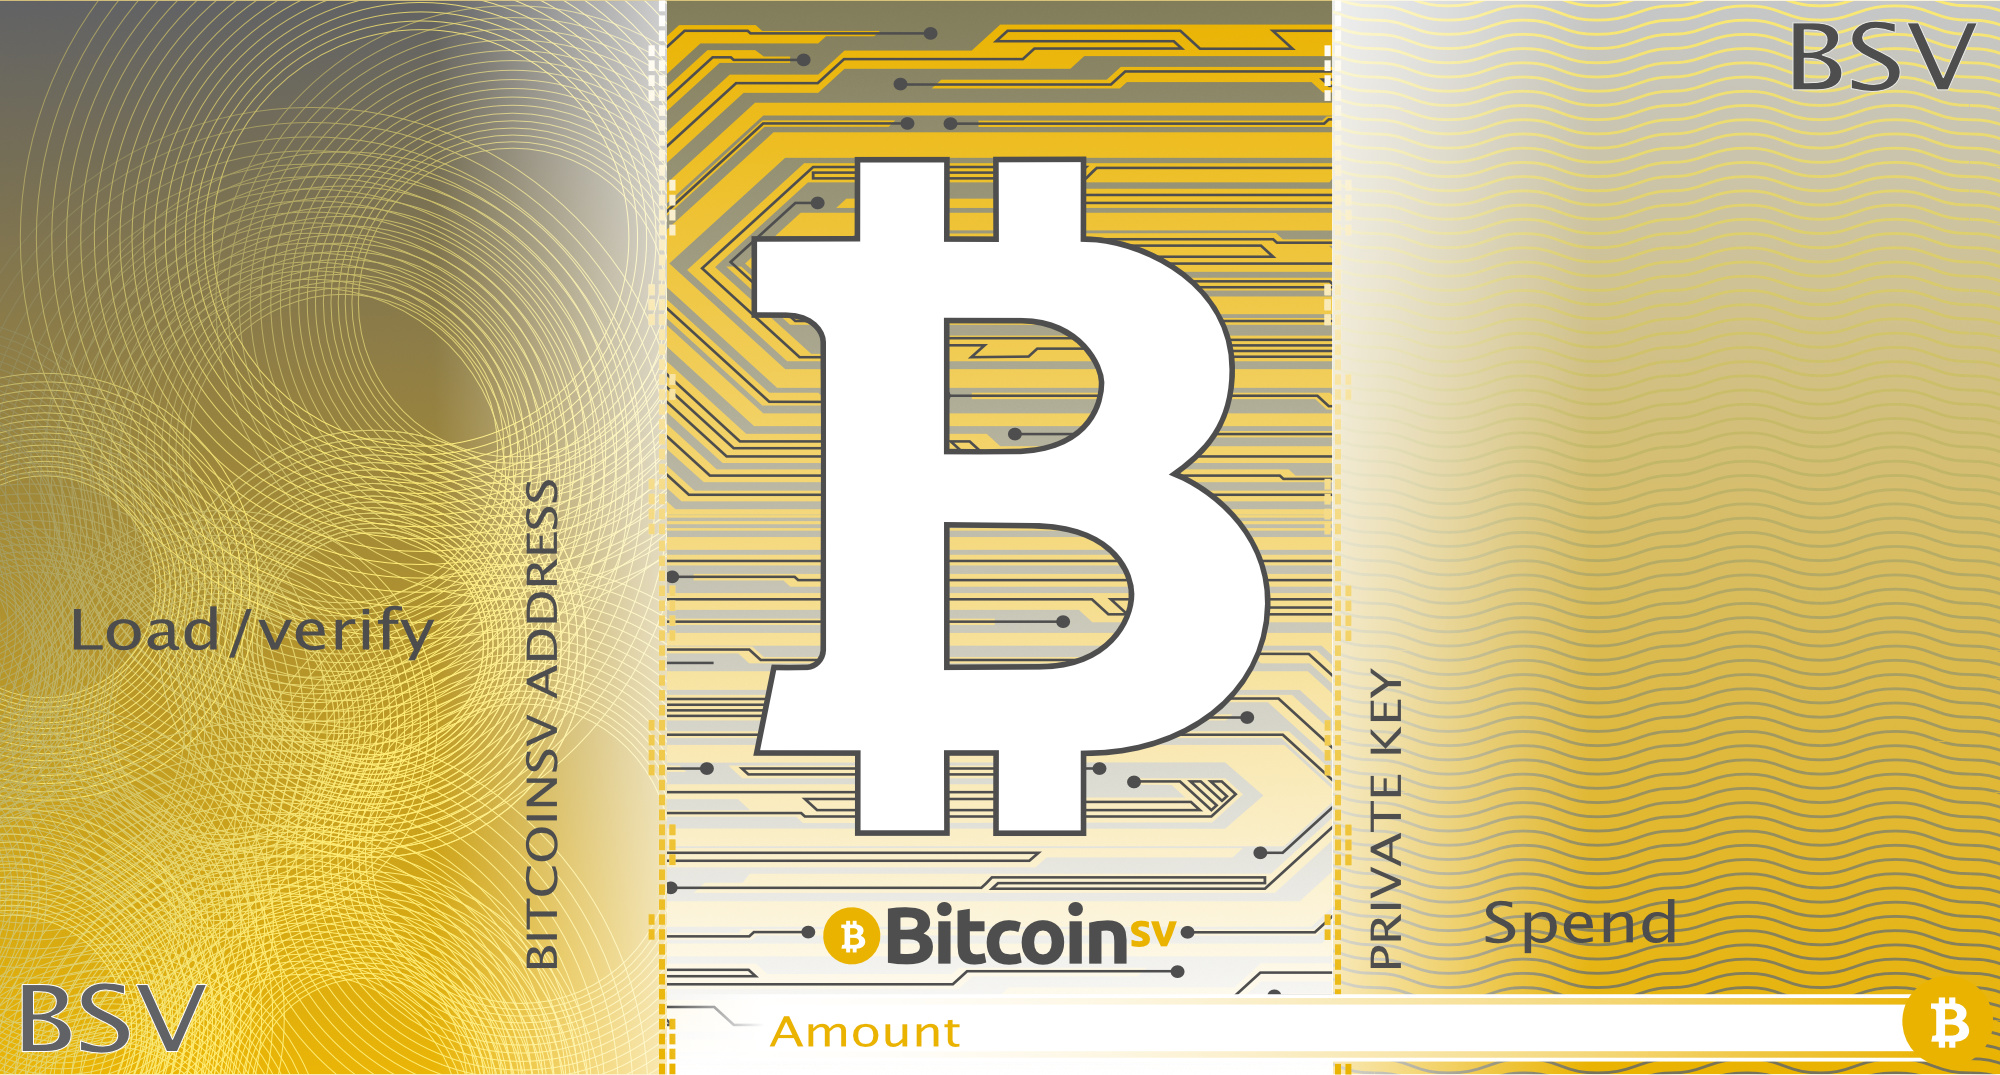
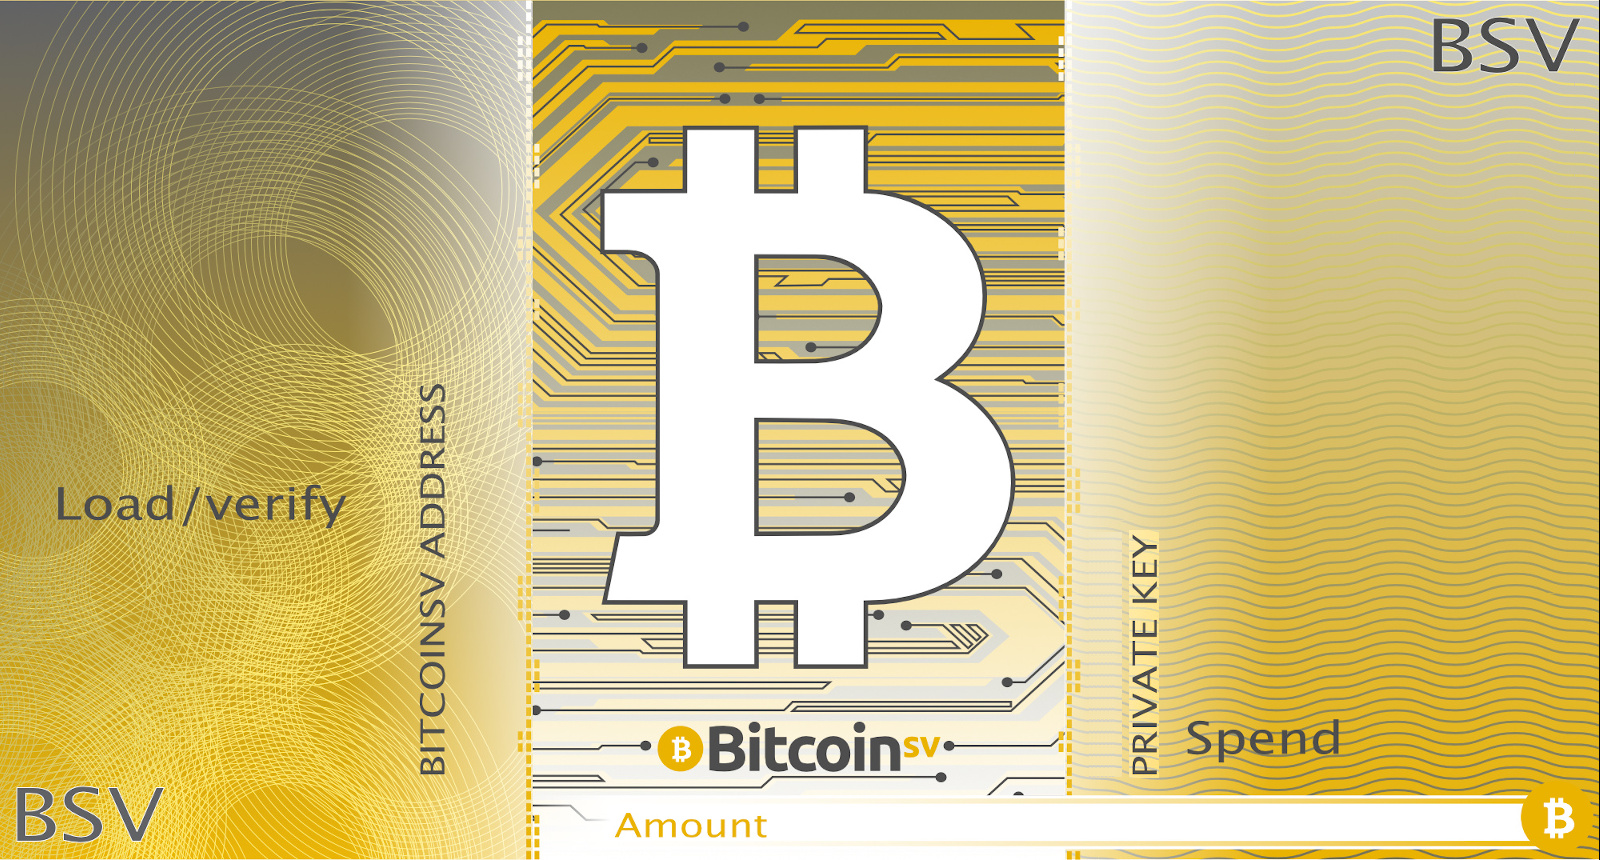
Paperwallet 800x430

diff --git a/bitaddress/css/main.css b/bitaddress/css/main.css
@@ -32,7 +32,7 @@ input[type=checkbox] { position: relative; z-index: 20; }
 #generate { font-family: monospace; font-size: 1.25em; height: 305px; text-align: left; position: relative; padding: 5px; border: 2px solid #eab300; clear: both; }
 #generate span { padding: 5px 5px 0 5px; }
 #generatekeyinput { position: relative; z-index: 20; }
-#keyarea { height: 250px; }
+#keyarea { height: 430px; }
 #keyarea .pubaddress { float: none; display: block; padding: 0; height: auto; }
 #keyarea .label { text-decoration: none; }
 #keyarea .privwif { float: none; text-align: right; position: relative; padding: 0; }
@@ -51,14 +51,14 @@ input[type=checkbox] { position: relative; z-index: 20; }
 #paperarea { min-height: 120px; display: none; }
 #paperarea .keyarea { border: 2px solid #eab300; border-top: 0; }
 #paperarea .keyarea.art { display: block; height: auto; border: 0; font-family: Ubuntu, Arial; padding: 0; margin: 0; }
-#paperarea .artwallet .papersvg { width: 486px; height: 261px; border: 0; margin: 0; padding: 0; left: 0; }
-#paperarea .artwallet .qrcode_public { top: 52px; left: 17px; z-index: 100; margin: 0; float: none; display: block; position: absolute; background-color: #FFFFFF; 
+#paperarea .artwallet .papersvg { width: 800px; height: 430px; border: 1px solid #000000; margin-top: 5px; margin-bottom: 5px; padding: 2px; left: 0; }
+#paperarea .artwallet .qrcode_public { top: 60px; left: 25px; z-index: 100; margin: 0; float: none; display: block; position: absolute; background-color: #FFFFFF; 
 		                                padding: 5px 5px 2px 5px; } 
-#paperarea .artwallet .qrcode_private { top: 104px; left: 360px; z-index: 100; margin: 0; float: none; display: block; position: absolute; background-color: #FFFFFF; 
+#paperarea .artwallet .qrcode_private { top: 120px; right: 25px; z-index: 100; margin: 0; float: none; display: block; position: absolute; background-color: #FFFFFF; 
 		                                padding: 5px 5px 2px 5px; }
 #paperarea .artwallet .bitcoinaddress  
 {
-	position: absolute; top: 240px; left: 139px; z-index: 100; font-size: 10px; background-color: transparent;
+	position: absolute; bottom: 40px; left: 240px; z-index: 100; font-size: 11px; background-color: transparent;
 	font-weight:bold; color: #000000; margin: 0;
 		-webkit-transform-origin:top left; -webkit-transform:rotate(-90deg);
 		-moz-transform-origin:top left;    -moz-transform:rotate(-90deg);
@@ -68,7 +68,7 @@ input[type=checkbox] { position: relative; z-index: 20; }
 } 
 #paperarea .artwallet .bitcoinprivwif  
 {
-	position: absolute; top: 236px; left: 346px; z-index: 100; font-size: 7px; background-color: transparent;
+	position: absolute; bottom: 40px; left: 550px; z-index: 100; font-size: 11px; background-color: transparent;
 	font-weight:bold; color: #000000; margin: 0;  
 		-webkit-transform-origin:top left; -webkit-transform:rotate(-90deg);
 		-moz-transform-origin:top left;    -moz-transform:rotate(-90deg);
@@ -224,6 +224,7 @@ input[type=checkbox] { position: relative; z-index: 20; }
 	#paperarea .keyarea.art:first-child { border: 0; }
 	.pagebreak { height: 1px; }
 	.paper #logo { display: none; }
+	.papersvg {border: #000000;}
 	.menu, .footer, .commands, .tip, #tagline, #faqs, #culturemenu { display: none; }
 	#detailprivwif { width: 285px; word-wrap: break-word; }
 	#detailprivwifcomp { width: 310px; word-wrap: break-word; text-align: right; }

diff --git a/bitaddress/js/ninja.paperwallet.js b/bitaddress/js/ninja.paperwallet.js
@@ -180,7 +180,8 @@ ninja.wallets.paperwallet = {
 		var keyValuePair = {};
 		keyValuePair["qrcode_public" + idPostFix] = bitcoinAddress;
 		keyValuePair["qrcode_private" + idPostFix] = privateKey;
-		ninja.qrCode.showQrCode(keyValuePair, 2.5);
+		// ninja.qrCode.showQrCode(keyValuePair, 2.5);
+		ninja.qrCode.showQrCode(keyValuePair, 4.5);
 		document.getElementById("bitcoinaddress" + idPostFix).innerHTML = bitcoinAddress;
 
 		if (ninja.wallets.paperwallet.encrypt) {

diff --git a/bitaddress/paperwallet.html b/bitaddress/paperwallet.html
@@ -199,6 +199,7 @@
 								<option value="venere.jpg">venere</option>
 								<option value="pegacrick.jpg">pegacrick</option>
 								<option value="christmas.jpg">christmas</option>
+								<option value="template.png">template</option>
 							</select>
 						</span>
 						<span><input type="button" id="papergenerate" value="Generate"
